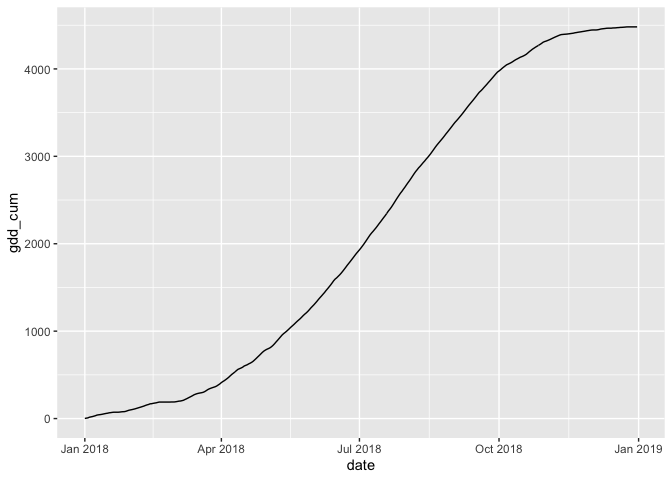
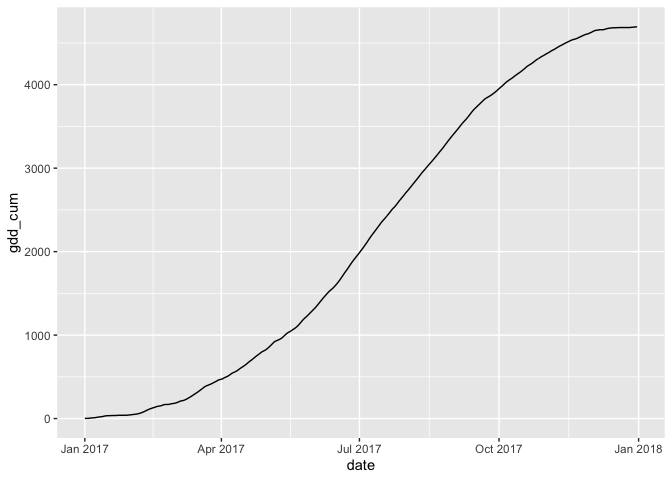
Change Phenome Force workshop data from season 6 to 4

diff --git a/videos/phenomeforce_2021/walkthrough.md b/videos/phenomeforce_2021/walkthrough.md
@@ -279,22 +279,22 @@ columns, noting that `mean` is the actual
 value.
 
 ``` r
-canopy_cover <- read.csv("dryad_data/traits/season_6_traits/season_6_canopy_cover_sensor.csv")
+canopy_cover <- read.csv("dryad_data/traits/season_4_traits/season_4_canopy_cover_sensor.csv")
 str(canopy_cover)
 ```
 
-    ## 'data.frame':    110637 obs. of  12 variables:
-    ##  $ plot          : Factor w/ 780 levels "MAC Field Scanner Season 6 Range 10 Column 1",..: 328 327 316 323 330 671 579 669 22 21 ...
+    ## 'data.frame':    54710 obs. of  12 variables:
+    ##  $ plot          : Factor w/ 778 levels "MAC Field Scanner Season 4 Range 10 Column 1",..: 70 70 70 70 70 70 70 70 70 70 ...
     ##  $ scientificname: Factor w/ 1 level "Sorghum bicolor": 1 1 1 1 1 1 1 1 1 1 ...
-    ##  $ genotype      : Factor w/ 326 levels "PI144134","PI145619",..: 326 326 326 326 93 247 120 185 216 242 ...
-    ##  $ treatment     : Factor w/ 1 level "MAC Season 6: Sorghum": 1 1 1 1 1 1 1 1 1 1 ...
-    ##  $ date          : Factor w/ 86 levels "2018-04-16","2018-04-28",..: 81 81 81 81 81 81 81 81 81 81 ...
+    ##  $ genotype      : Factor w/ 351 levels "Big_Kahuna","PI144134",..: 209 209 209 209 209 209 209 209 209 209 ...
+    ##  $ treatment     : Factor w/ 2 levels "MAC Season 4: BAP water-deficit stress Aug 1-14",..: 2 2 2 2 2 2 2 2 2 2 ...
+    ##  $ date          : Factor w/ 101 levels "2017-04-27","2017-04-28",..: 1 3 4 5 7 8 9 11 12 13 ...
     ##  $ trait         : Factor w/ 1 level "canopy_cover": 1 1 1 1 1 1 1 1 1 1 ...
     ##  $ method        : Factor w/ 1 level "Green Canopy Cover Estimation from Field Scanner RGB images": 1 1 1 1 1 1 1 1 1 1 ...
-    ##  $ mean          : num  70 72.2 71.3 71.7 46.9 ...
+    ##  $ mean          : num  0.000225 0.0866 0.309 2.53 0.366 1.64 1.57 5.75 8.7 7.71 ...
     ##  $ checked       : int  0 0 0 0 0 0 0 0 0 0 ...
     ##  $ author        : Factor w/ 1 level "Zongyang, Li": 1 1 1 1 1 1 1 1 1 1 ...
-    ##  $ season        : Factor w/ 1 level "Season 6": 1 1 1 1 1 1 1 1 1 1 ...
+    ##  $ season        : Factor w/ 1 level "Season 4": 1 1 1 1 1 1 1 1 1 1 ...
     ##  $ method_type   : Factor w/ 1 level "sensor": 1 1 1 1 1 1 1 1 1 1 ...
 
 Note that date is a factor. We’ll need it to be in date format for
@@ -371,13 +371,13 @@ to canopy cover data, cause we’ll combine them later.
 range(canopy_cover$date)
 ```
 
-    ## [1] "2018-04-16" "2018-07-28"
+    ## [1] "2017-04-27" "2017-08-31"
 
 So 2018 data, and we’ll use hourly because we’ll need sub-daily values
 later.
 
 ``` r
-weather <- read.csv("dryad_data/metadata/weather/azmet/azmet_2018_hourly.csv")
+weather <- read.csv("dryad_data/metadata/weather/azmet/azmet_2017_hourly.csv")
 ```
 
 There are no column names. These are in README in `azmet` folder. In
@@ -388,10 +388,10 @@ cover. Then calculate mean temperature. Pull out just date and
 temperature column. Use dplyr tools to get mean daily temp.
 
 ``` r
-temp_2018_daily <- weather %>% 
-  mutate(date = as.Date(X1, origin = "2017-12-31")) %>% 
-  select(date, X4.4) %>% 
-  rename(temperature = X4.4) %>% 
+temp_2017_daily <- weather %>% 
+  mutate(date = as.Date(X1, origin = "2016-12-31")) %>% 
+  select(date, X13.3) %>% 
+  rename(temperature = X13.3) %>% 
   group_by(date) %>% 
   summarize(mean_temp = mean(temperature))
 ```
@@ -399,7 +399,7 @@ temp_2018_daily <- weather %>%
 ### Plot data - Kristina
 
 ``` r
-ggplot(temp_2018_daily, aes(x = date, y = mean_temp)) +
+ggplot(temp_2017_daily, aes(x = date, y = mean_temp)) +
   geom_point()
 ```
 
@@ -420,9 +420,9 @@ calculation in as a new column.
 
 ``` r
 temp_for_gdd <- weather %>% 
-  mutate(date = as.Date(X1, origin = "2017-12-31")) %>% 
-  select(date, X4.4) %>% 
-  rename(temperature = X4.4) %>% 
+  mutate(date = as.Date(X1, origin = "2016-12-31")) %>% 
+  select(date, X13.3) %>% 
+  rename(temperature = X13.3) %>% 
   group_by(date) %>% 
   summarize(min_temp = min(temperature), 
             max_temp = max(temperature), 
@@ -492,45 +492,43 @@ Wrote a function to model these data. Copy and paste function and point
 out parts.
 
 ``` r
-model_logistic_growth <- function(data){
-  #parameter estimates
-  c <- 90
-  a <- 0.1
-  y <- cover_gdd$mean[3]
-  g <- cover_gdd$gdd_cum[3]
-  b <- ((log((c/y) - 1)) - a)/g
-  #model
-  model <- nls(mean ~ c / (1 + exp(a + b * gdd_cum)), 
-                             start = list(c = c, a = a, b = b),
-                             data = data)
-  #model coefficients
-  single_c <- coef(model)[1]
-  single_a <- coef(model)[2]
-  single_b <- coef(model)[3]
-  #canopy value predictions
-  mean_predict = single_c / (1 + exp(single_a + single_b * data$gdd_cum))
-  return(mean_predict)
-}
+# model_logistic_growth <- function(data){
+#   #parameter estimates
+#   c <- 90
+#   a <- 0.1
+#   y <- cover_gdd$mean[3]
+#   g <- cover_gdd$gdd_cum[3]
+#   b <- ((log((c/y) - 1)) - a)/g
+#   #model
+#   model <- nls(mean ~ c / (1 + exp(a + b * gdd_cum)), 
+#                              start = list(c = c, a = a, b = b),
+#                              data = data)
+#   #model coefficients
+#   single_c <- coef(model)[1]
+#   single_a <- coef(model)[2]
+#   single_b <- coef(model)[3]
+#   #canopy value predictions
+#   mean_predict = single_c / (1 + exp(single_a + single_b * data$gdd_cum))
+#   return(mean_predict)
+# }
 ```
 
 Run the logistic model on the dataframe to get out predicted values of
 canopy cover for all GDD values. Add this to dataframe.
 
 ``` r
-cover_gdd$predictions <- model_logistic_growth(cover_gdd)
+# cover_gdd$predictions <- model_logistic_growth(cover_gdd)
 ```
 
 Plot the data like before, and plot model as line using predicted values
 to compare. Looks like a good fit.
 
 ``` r
-ggplot(cover_gdd) +
-  geom_point(aes(x = gdd_cum, y = mean)) +
-  geom_line(aes(x = gdd_cum, y = predictions), color = "orange") +
-  labs(x = "Cumulative growing degree days", y = "Canopy Height")
+# ggplot(cover_gdd) +
+#   geom_point(aes(x = gdd_cum, y = mean)) +
+#   geom_line(aes(x = gdd_cum, y = predictions), color = "orange") +
+#   labs(x = "Cumulative growing degree days", y = "Canopy Height")
 ```
-
-![](walkthrough_files/figure-gfm/unnamed-chunk-19-1.png)<!-- -->
 
 ### Wrapup - David
 
